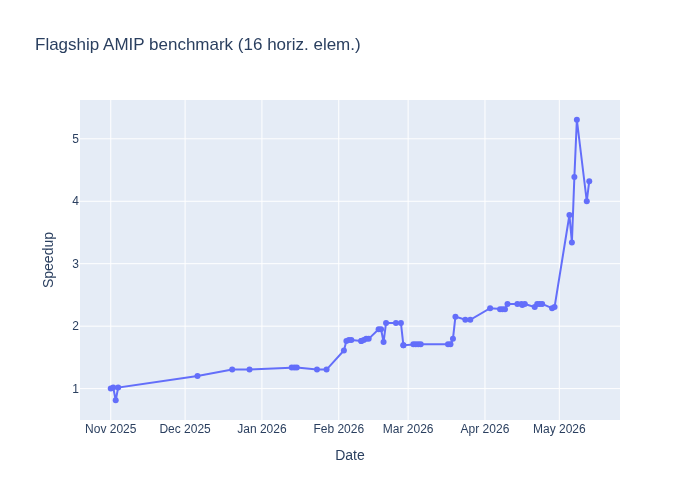
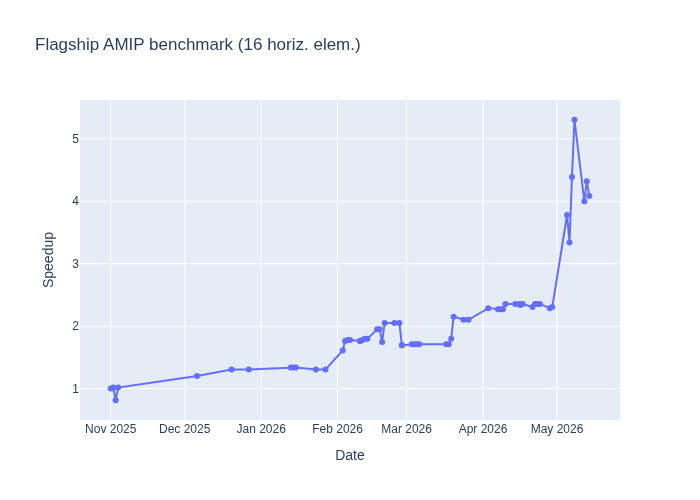
Run pipeline

diff --git a/.calkit/notebooks/html/notebooks/analyze.html b/.calkit/notebooks/html/notebooks/analyze.html
@@ -8180,7 +8180,7 @@ a.anchor-link {
 <div class="jp-OutputArea-child">
 <div class="jp-OutputPrompt jp-OutputArea-prompt"></div>
 <div class="jp-RenderedText jp-OutputArea-output" data-mime-type="text/plain" tabindex="0">
-<pre>shape: (90, 18)
+<pre>shape: (91, 18)
 ┌────────────┬───────────┬───────┬────────────┬───┬────────────┬───────────┬───────────┬───────────┐
 │ date       ┆ run_from  ┆ sypd  ┆ buildkite_ ┆ … ┆ ClimaTimes ┆ RRTMGP_di ┆ Thermodyn ┆ repos_cha │
 │ ---        ┆ ---       ┆ ---   ┆ commit     ┆   ┆ teppers_di ┆ ff_url    ┆ amics_dif ┆ nged      │
@@ -8204,10 +8204,6 @@ a.anchor-link {
 │ 00:00:00   ┆           ┆       ┆            ┆   ┆            ┆           ┆           ┆           │
 │ UTC        ┆           ┆       ┆            ┆   ┆            ┆           ┆           ┆           │
 │ …          ┆ …         ┆ …     ┆ …          ┆ … ┆ …          ┆ …         ┆ …         ┆ …         │
-│ 2026-05-06 ┆ buildkite ┆ 0.197 ┆ 532f8f1094 ┆ … ┆ null       ┆ null      ┆ null      ┆ 2.0       │
-│ 02:01:09.7 ┆           ┆       ┆ dbc38ffb4e ┆   ┆            ┆           ┆           ┆           │
-│ 23 UTC     ┆           ┆       ┆ 03b773d403 ┆   ┆            ┆           ┆           ┆           │
-│            ┆           ┆       ┆ …          ┆   ┆            ┆           ┆           ┆           │
 │ 2026-05-07 ┆ buildkite ┆ 0.259 ┆ 21d81ce088 ┆ … ┆ null       ┆ null      ┆ null      ┆ 3.0       │
 │ 02:01:09.9 ┆           ┆       ┆ 94e494048a ┆   ┆            ┆           ┆           ┆           │
 │ 38 UTC     ┆           ┆       ┆ 8d4ef69980 ┆   ┆            ┆           ┆           ┆           │
@@ -8220,10 +8216,14 @@ a.anchor-link {
 │ 02:01:09.9 ┆           ┆       ┆ c751f20363 ┆   ┆            ┆           ┆           ┆           │
 │ 50 UTC     ┆           ┆       ┆ c851ccd2cc ┆   ┆            ┆           ┆           ┆           │
 │            ┆           ┆       ┆ …          ┆   ┆            ┆           ┆           ┆           │
-│ 2026-05-13 ┆ buildkite ┆ 0.255 ┆ 3ef1d6f273 ┆ … ┆ null       ┆ null      ┆ https://g ┆ 4.0       │
-│ 02:01:09.4 ┆           ┆       ┆ 01ac09d140 ┆   ┆            ┆           ┆ ithub.com ┆           │
-│ 35 UTC     ┆           ┆       ┆ da79e281d9 ┆   ┆            ┆           ┆ /CliMA/Th ┆           │
-│            ┆           ┆       ┆ …          ┆   ┆            ┆           ┆ erm…      ┆           │
+│ 2026-05-13 ┆ buildkite ┆ 0.255 ┆ 3ef1d6f273 ┆ … ┆ https://gi ┆ null      ┆ https://g ┆ 5.0       │
+│ 02:01:09.4 ┆           ┆       ┆ 01ac09d140 ┆   ┆ thub.com/C ┆           ┆ ithub.com ┆           │
+│ 35 UTC     ┆           ┆       ┆ da79e281d9 ┆   ┆ liMA/Clima ┆           ┆ /CliMA/Th ┆           │
+│            ┆           ┆       ┆ …          ┆   ┆ …          ┆           ┆ erm…      ┆           │
+│ 2026-05-14 ┆ buildkite ┆ 0.241 ┆ 3ef1d6f273 ┆ … ┆ https://gi ┆ null      ┆ https://g ┆ 3.0       │
+│ 02:01:10.4 ┆           ┆       ┆ 01ac09d140 ┆   ┆ thub.com/C ┆           ┆ ithub.com ┆           │
+│ 41 UTC     ┆           ┆       ┆ da79e281d9 ┆   ┆ liMA/Clima ┆           ┆ /CliMA/Th ┆           │
+│            ┆           ┆       ┆ …          ┆   ┆ …          ┆           ┆ erm…      ┆           │
 └────────────┴───────────┴───────┴────────────┴───┴────────────┴───────────┴───────────┴───────────┘
 </pre>
 </div>

diff --git a/.calkit/notebooks/html/notebooks/buildkite.html b/.calkit/notebooks/html/notebooks/buildkite.html
@@ -8004,7 +8004,7 @@ version control.</p>
 <div class="jp-OutputArea-child">
 <div class="jp-OutputPrompt jp-OutputArea-prompt"></div>
 <div class="jp-RenderedText jp-OutputArea-output" data-mime-type="text/plain" tabindex="0">
-<pre>Fetching jobs from builds finished at 2026-05-12 13:13:03.710000
+<pre>Fetching jobs from builds finished at 2026-05-13 13:21:43.039000
 </pre>
 </div>
 </div>

diff --git a/results/amip-repo-diff-links.md b/results/amip-repo-diff-links.md
@@ -1,6 +1,7 @@
 | Date | Speedup | Change | Repo diffs |
 |---|---:|---:|---|
-| 2026-05-13 | 4.322034 | +8.1% | [ClimaAtmos](https://github.com/CliMA/ClimaAtmos.jl/compare/0ca7156cde3d5b8e30fa5d92cc4ae13b50f2b7f3...76f2f70b14305e0fea2d00aafc73ec8ac2384856), [ClimaCore](https://github.com/CliMA/ClimaCore.jl/compare/9a599da4435781c3da028ebdb94052d7fcbc1139...1c626e27d2a9f29f2cf2c6b84438809c0bf652b0), [ClimaCoupler](https://github.com/CliMA/ClimaCoupler.jl/compare/850e808e86c751f20363c851ccd2cc684f1e979e...3ef1d6f27301ac09d140da79e281d9ddcb2e23e9), [Thermodynamics](https://github.com/CliMA/Thermodynamics.jl/compare/e19d95dcafd07f1995df586f76db4e6c11579392...2fa0f14a6035fd341901f1c8cfc52d2647e28458) |
+| 2026-05-14 | 4.084746 | -5.5% | [ClimaAtmos](https://github.com/CliMA/ClimaAtmos.jl/compare/76f2f70b14305e0fea2d00aafc73ec8ac2384856...896dc04d4c6727cc1841c65c54bfaa64fc0e0a3d), [ClimaTimesteppers](https://github.com/CliMA/ClimaTimeSteppers.jl/compare/f6fcf9a0da46288521c6ce60064efd1a1f3923cd...ae3dfb8a6b7a8acc66e96d262f514f4c946d32c0), [Thermodynamics](https://github.com/CliMA/Thermodynamics.jl/compare/2fa0f14a6035fd341901f1c8cfc52d2647e28458...9d987536ce45d88d8070115413c3b607084f1ae9) |
+| 2026-05-13 | 4.322034 | +8.1% | [ClimaAtmos](https://github.com/CliMA/ClimaAtmos.jl/compare/0ca7156cde3d5b8e30fa5d92cc4ae13b50f2b7f3...76f2f70b14305e0fea2d00aafc73ec8ac2384856), [ClimaCore](https://github.com/CliMA/ClimaCore.jl/compare/9a599da4435781c3da028ebdb94052d7fcbc1139...1c626e27d2a9f29f2cf2c6b84438809c0bf652b0), [ClimaCoupler](https://github.com/CliMA/ClimaCoupler.jl/compare/850e808e86c751f20363c851ccd2cc684f1e979e...3ef1d6f27301ac09d140da79e281d9ddcb2e23e9), [ClimaTimesteppers](https://github.com/CliMA/ClimaTimeSteppers.jl/compare/c0ff46531bd2c67bdc173d91c855b84bf5e4f583...f6fcf9a0da46288521c6ce60064efd1a1f3923cd), [Thermodynamics](https://github.com/CliMA/Thermodynamics.jl/compare/e19d95dcafd07f1995df586f76db4e6c11579392...2fa0f14a6035fd341901f1c8cfc52d2647e28458) |
 | 2026-05-12 | 4.000000 | -24.6% | [ClimaAtmos](https://github.com/CliMA/ClimaAtmos.jl/compare/826416984c3f7cfc28eb39d40b09240bffd5e934...0ca7156cde3d5b8e30fa5d92cc4ae13b50f2b7f3), [ClimaCoupler](https://github.com/CliMA/ClimaCoupler.jl/compare/451808f2762fdaf3b71690fba41590dbdf427cb8...850e808e86c751f20363c851ccd2cc684f1e979e) |
 | 2026-05-08 | 5.305085 | +20.8% | [ClimaAtmos](https://github.com/CliMA/ClimaAtmos.jl/compare/e46b79676e0257d23da9c39be852a6df8e03c6f0...826416984c3f7cfc28eb39d40b09240bffd5e934), [ClimaCoupler](https://github.com/CliMA/ClimaCoupler.jl/compare/21d81ce08894e494048a8d4ef69980bee279bacc...451808f2762fdaf3b71690fba41590dbdf427cb8) |
 | 2026-05-07 | 4.389831 | +31.5% | [ClimaAtmos](https://github.com/CliMA/ClimaAtmos.jl/compare/ca856c569a8511c239dcb1dede92d34acf074737...e46b79676e0257d23da9c39be852a6df8e03c6f0), [ClimaCore](https://github.com/CliMA/ClimaCore.jl/compare/2356bdb3cb62ac1f96bdc941fde9d4bf47d98f6f...9a599da4435781c3da028ebdb94052d7fcbc1139), [ClimaCoupler](https://github.com/CliMA/ClimaCoupler.jl/compare/532f8f1094dbc38ffb4e03b773d40333fc8124a1...21d81ce08894e494048a8d4ef69980bee279bacc) |
@@ -14,4 +15,3 @@
 | 2026-04-21 | 2.305085 | -2.2% | [ClimaAtmos](https://github.com/CliMA/ClimaAtmos.jl/compare/61ee8fece612204449865cc07cad3b4b34a11204...c893f2673662a943e10fb79b1689048aad108e47), [ClimaCore](https://github.com/CliMA/ClimaCore.jl/compare/626d168798d0ac3cf231aa254fc0e047a45aa964...617dd73bc087b72ae42e01c71eacbd0bdca9de11) |
 | 2026-04-17 | 2.355932 | +0.7% |  |
 | 2026-04-16 | 2.338983 | -0.7% |  |
-| 2026-04-15 | 2.355932 |  | [ClimaCoupler](https://github.com/CliMA/ClimaCoupler.jl/compare/6517bec0a1ba93aa3742278c66f14df5ba436123...18e1bb17a115c414f9d795e068b7327a88c95b4f) |
